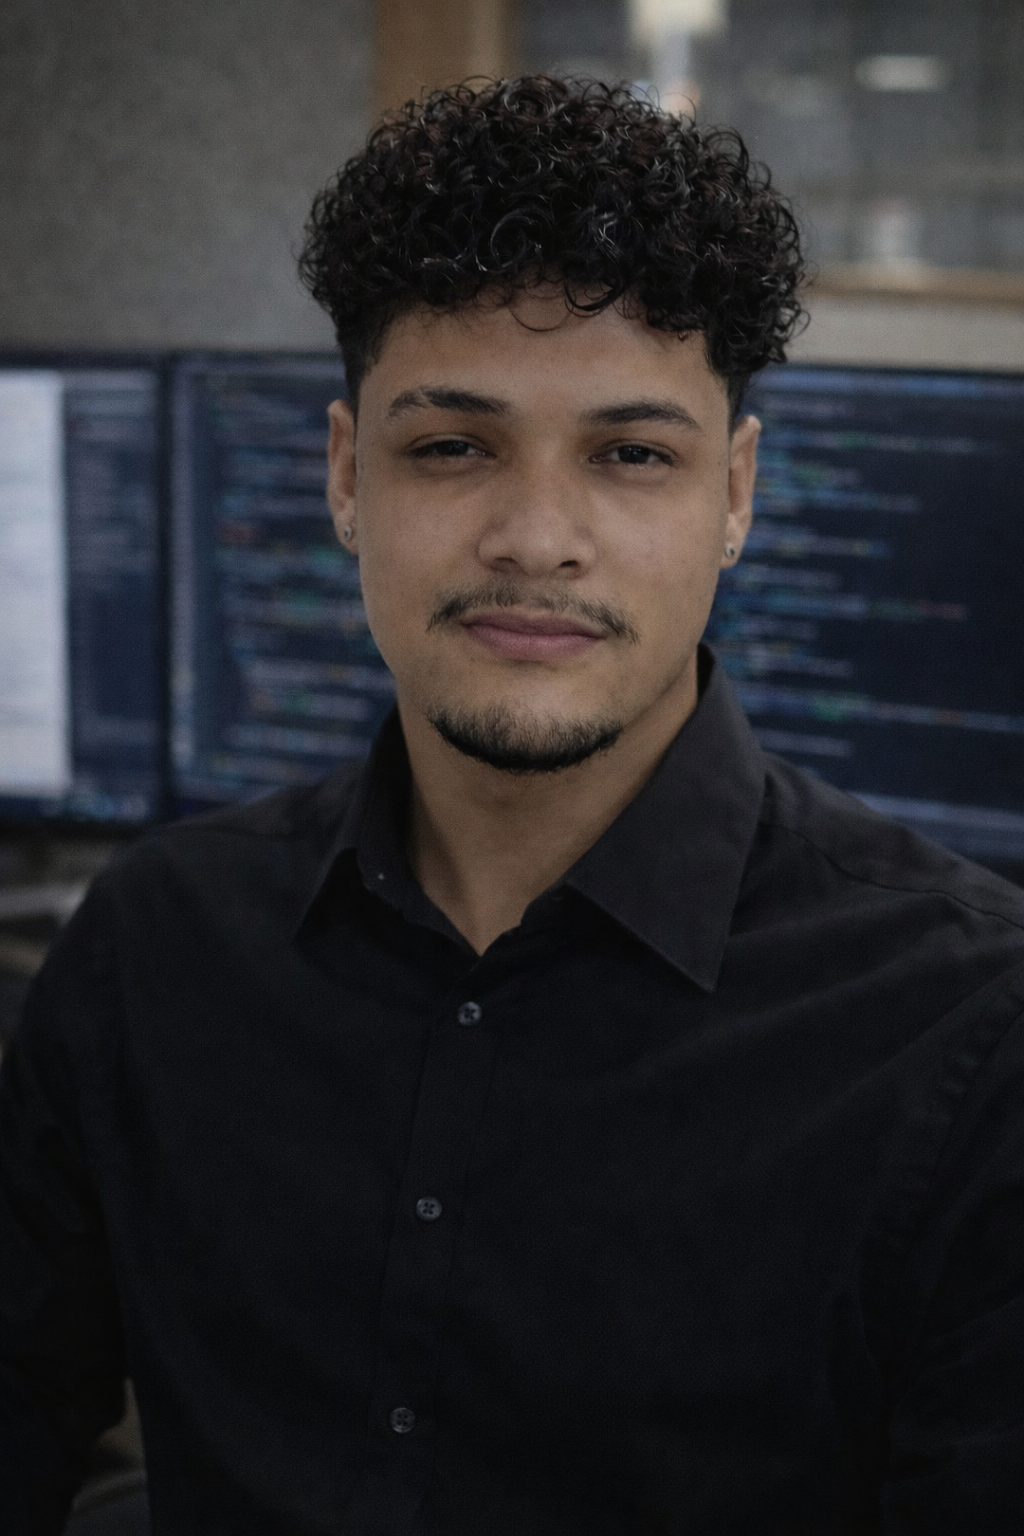
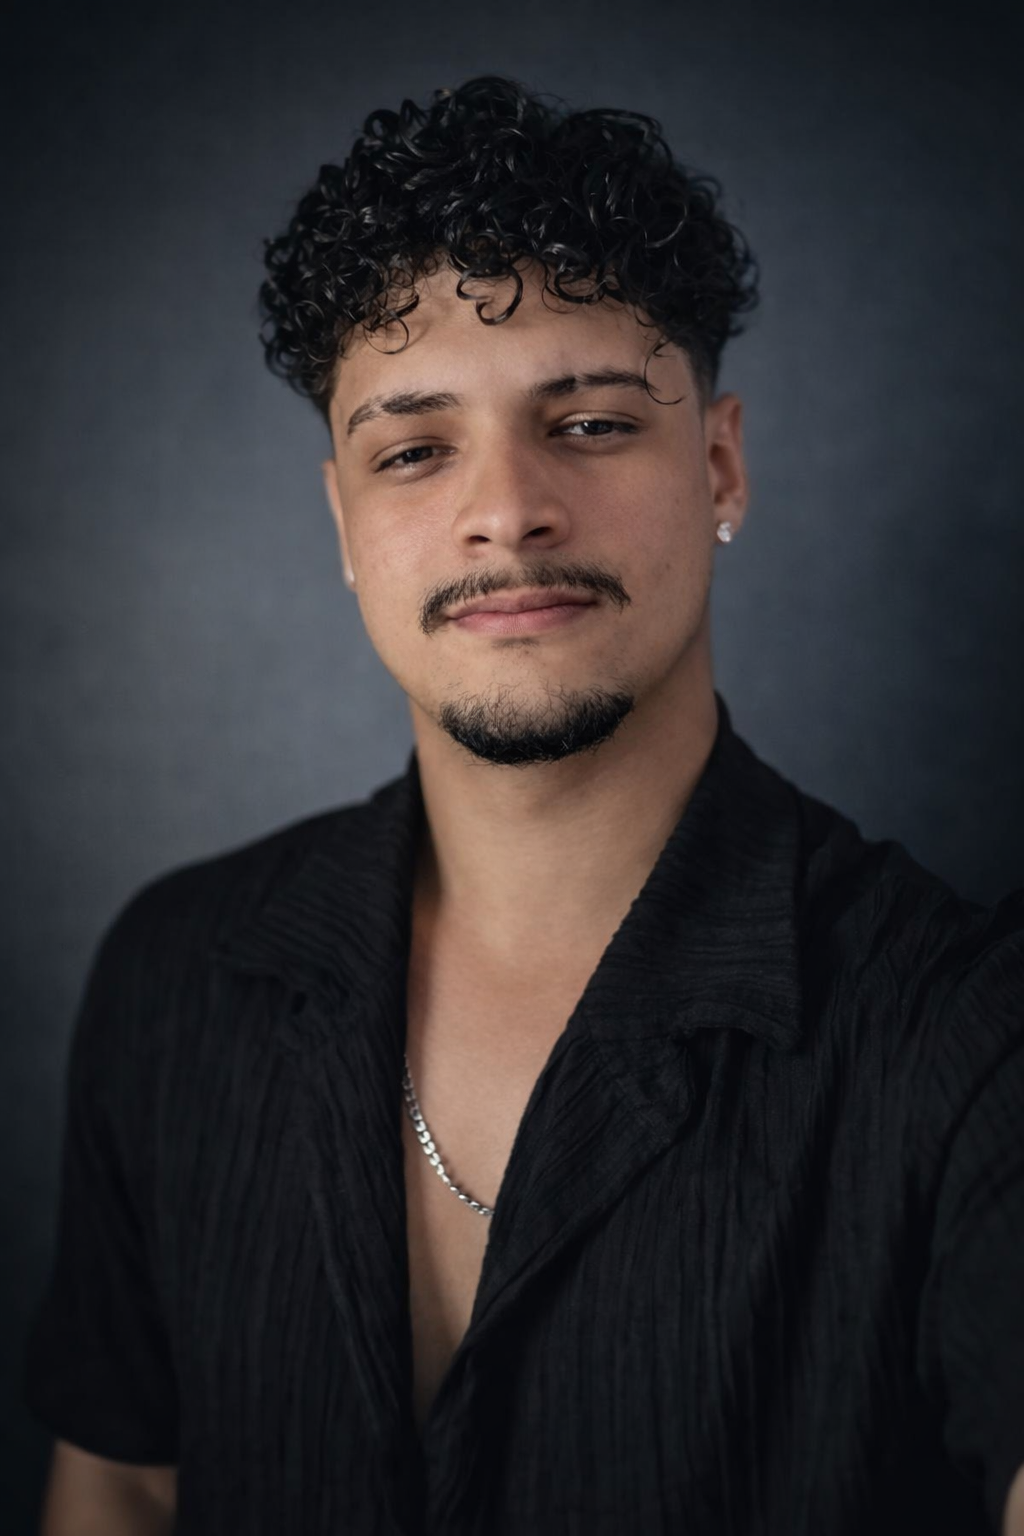
Ajustando imagens do site

diff --git a/Portfolio/obj/Debug/net10.0/Portfolio.AssemblyInfo.cs b/Portfolio/obj/Debug/net10.0/Portfolio.AssemblyInfo.cs
@@ -14,7 +14,7 @@ using System.Reflection;
 [assembly: System.Reflection.AssemblyCompanyAttribute("Portfolio")]
 [assembly: System.Reflection.AssemblyConfigurationAttribute("Debug")]
 [assembly: System.Reflection.AssemblyFileVersionAttribute("1.0.0.0")]
-[assembly: System.Reflection.AssemblyInformationalVersionAttribute("1.0.0+e2db19a81d947d6a555581aa139e85644d41f897")]
+[assembly: System.Reflection.AssemblyInformationalVersionAttribute("1.0.0+604c020371721aa61c31eb956d4180380a3b76d3")]
 [assembly: System.Reflection.AssemblyProductAttribute("Portfolio")]
 [assembly: System.Reflection.AssemblyTitleAttribute("Portfolio")]
 [assembly: System.Reflection.AssemblyVersionAttribute("1.0.0.0")]

diff --git a/Portfolio/obj/Release/net10.0/Portfolio.AssemblyInfo.cs b/Portfolio/obj/Release/net10.0/Portfolio.AssemblyInfo.cs
@@ -14,7 +14,7 @@ using System.Reflection;
 [assembly: System.Reflection.AssemblyCompanyAttribute("Portfolio")]
 [assembly: System.Reflection.AssemblyConfigurationAttribute("Release")]
 [assembly: System.Reflection.AssemblyFileVersionAttribute("1.0.0.0")]
-[assembly: System.Reflection.AssemblyInformationalVersionAttribute("1.0.0+e2db19a81d947d6a555581aa139e85644d41f897")]
+[assembly: System.Reflection.AssemblyInformationalVersionAttribute("1.0.0+604c020371721aa61c31eb956d4180380a3b76d3")]
 [assembly: System.Reflection.AssemblyProductAttribute("Portfolio")]
 [assembly: System.Reflection.AssemblyTitleAttribute("Portfolio")]
 [assembly: System.Reflection.AssemblyVersionAttribute("1.0.0.0")]